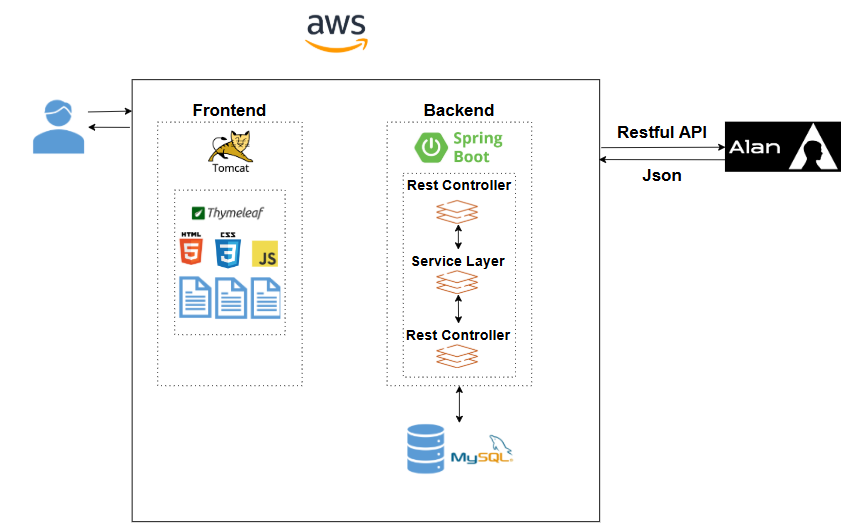
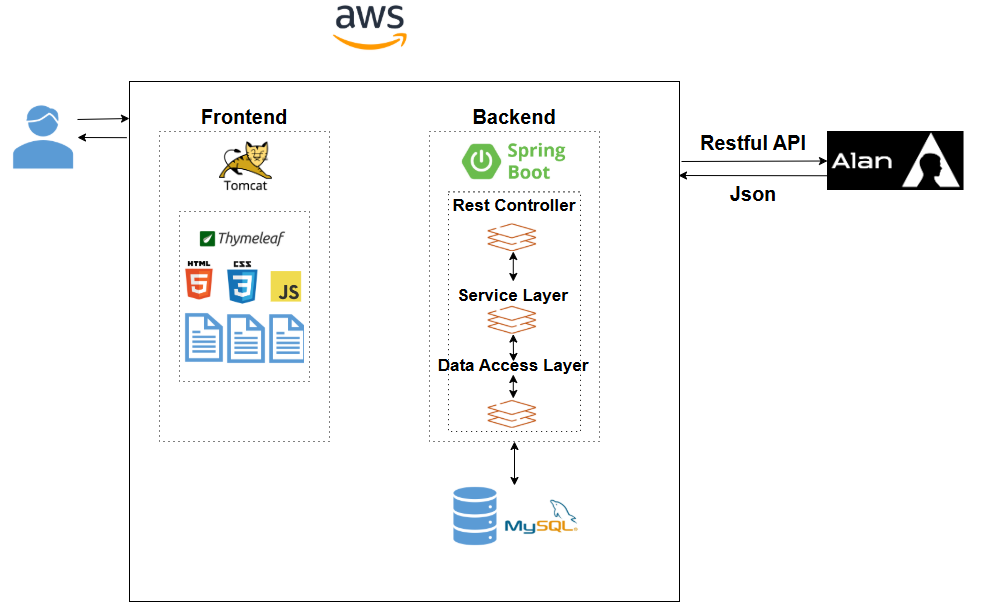
docs: 오타 수정 및 시스템 아키텍처 구성도 수정

Changed region(s): [[0.0, 0.0, 0.7035, 0.9091], [0.6729, 0.2121, 1.0, 0.3636], [0.1224, 0.9697, 0.7035, 1.0]]

diff --git a/README.md b/README.md
@@ -30,7 +30,7 @@
 
 ```mermaid
 gantt
-    title 청춘은 바로 지 프로젝트 일정 
+    title 청춘은 바로 지금 프로젝트 일정 
     dateFormat  YYYY-MM-DD
     axisFormat  %m-%d
 
